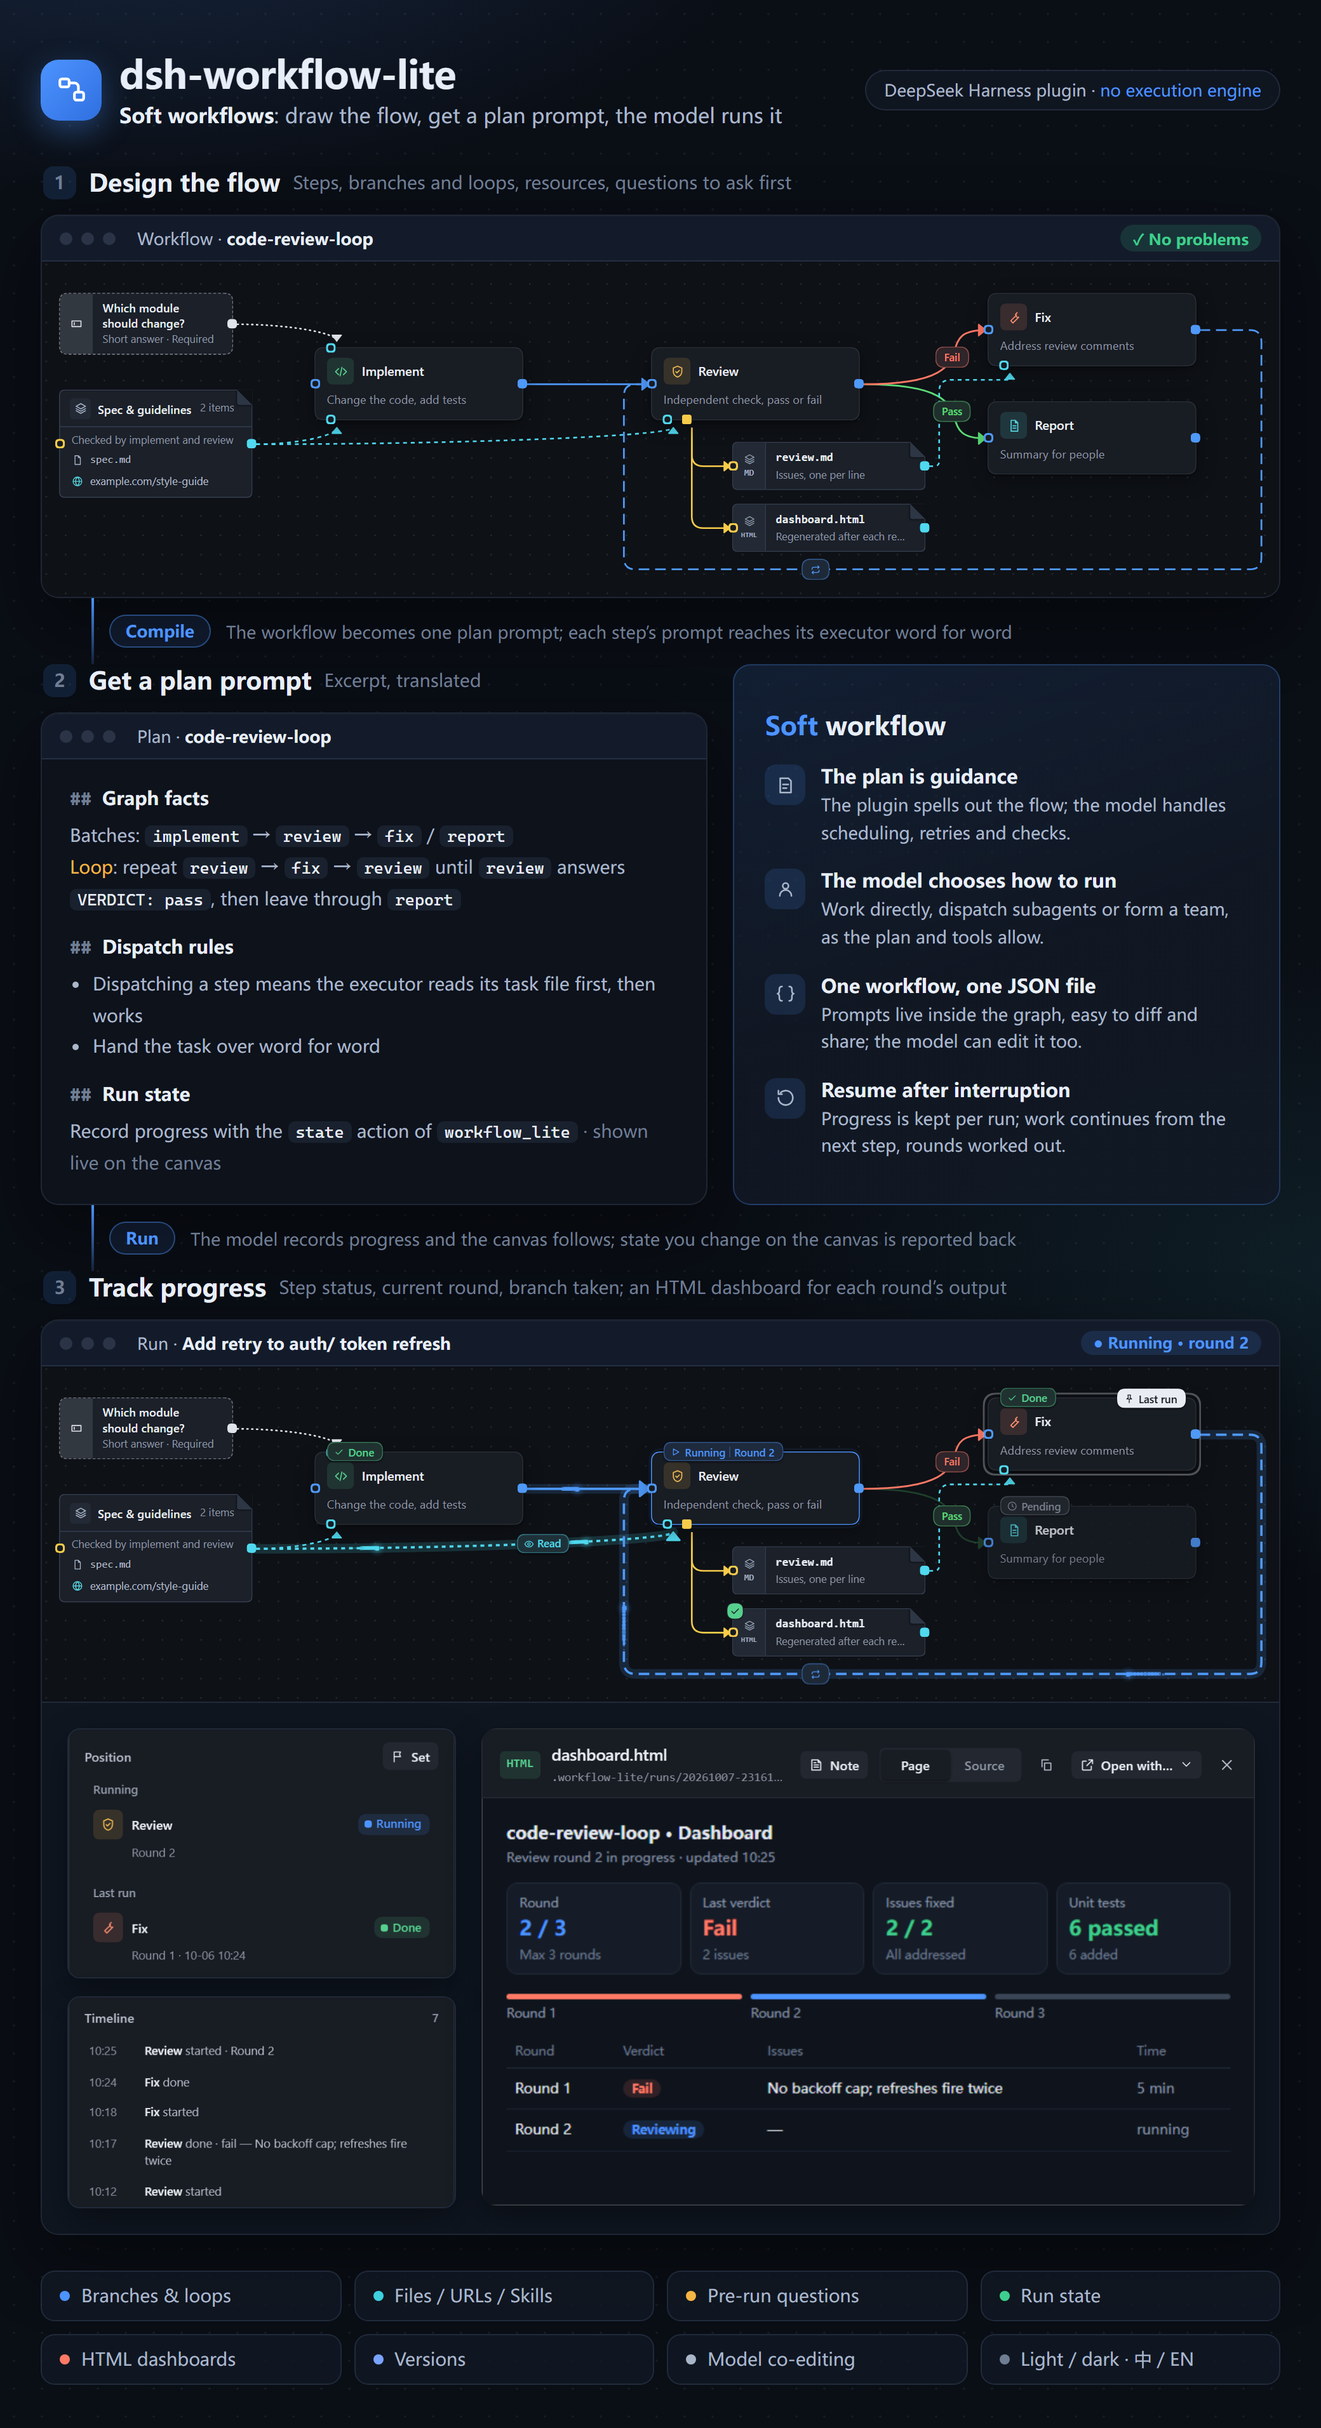
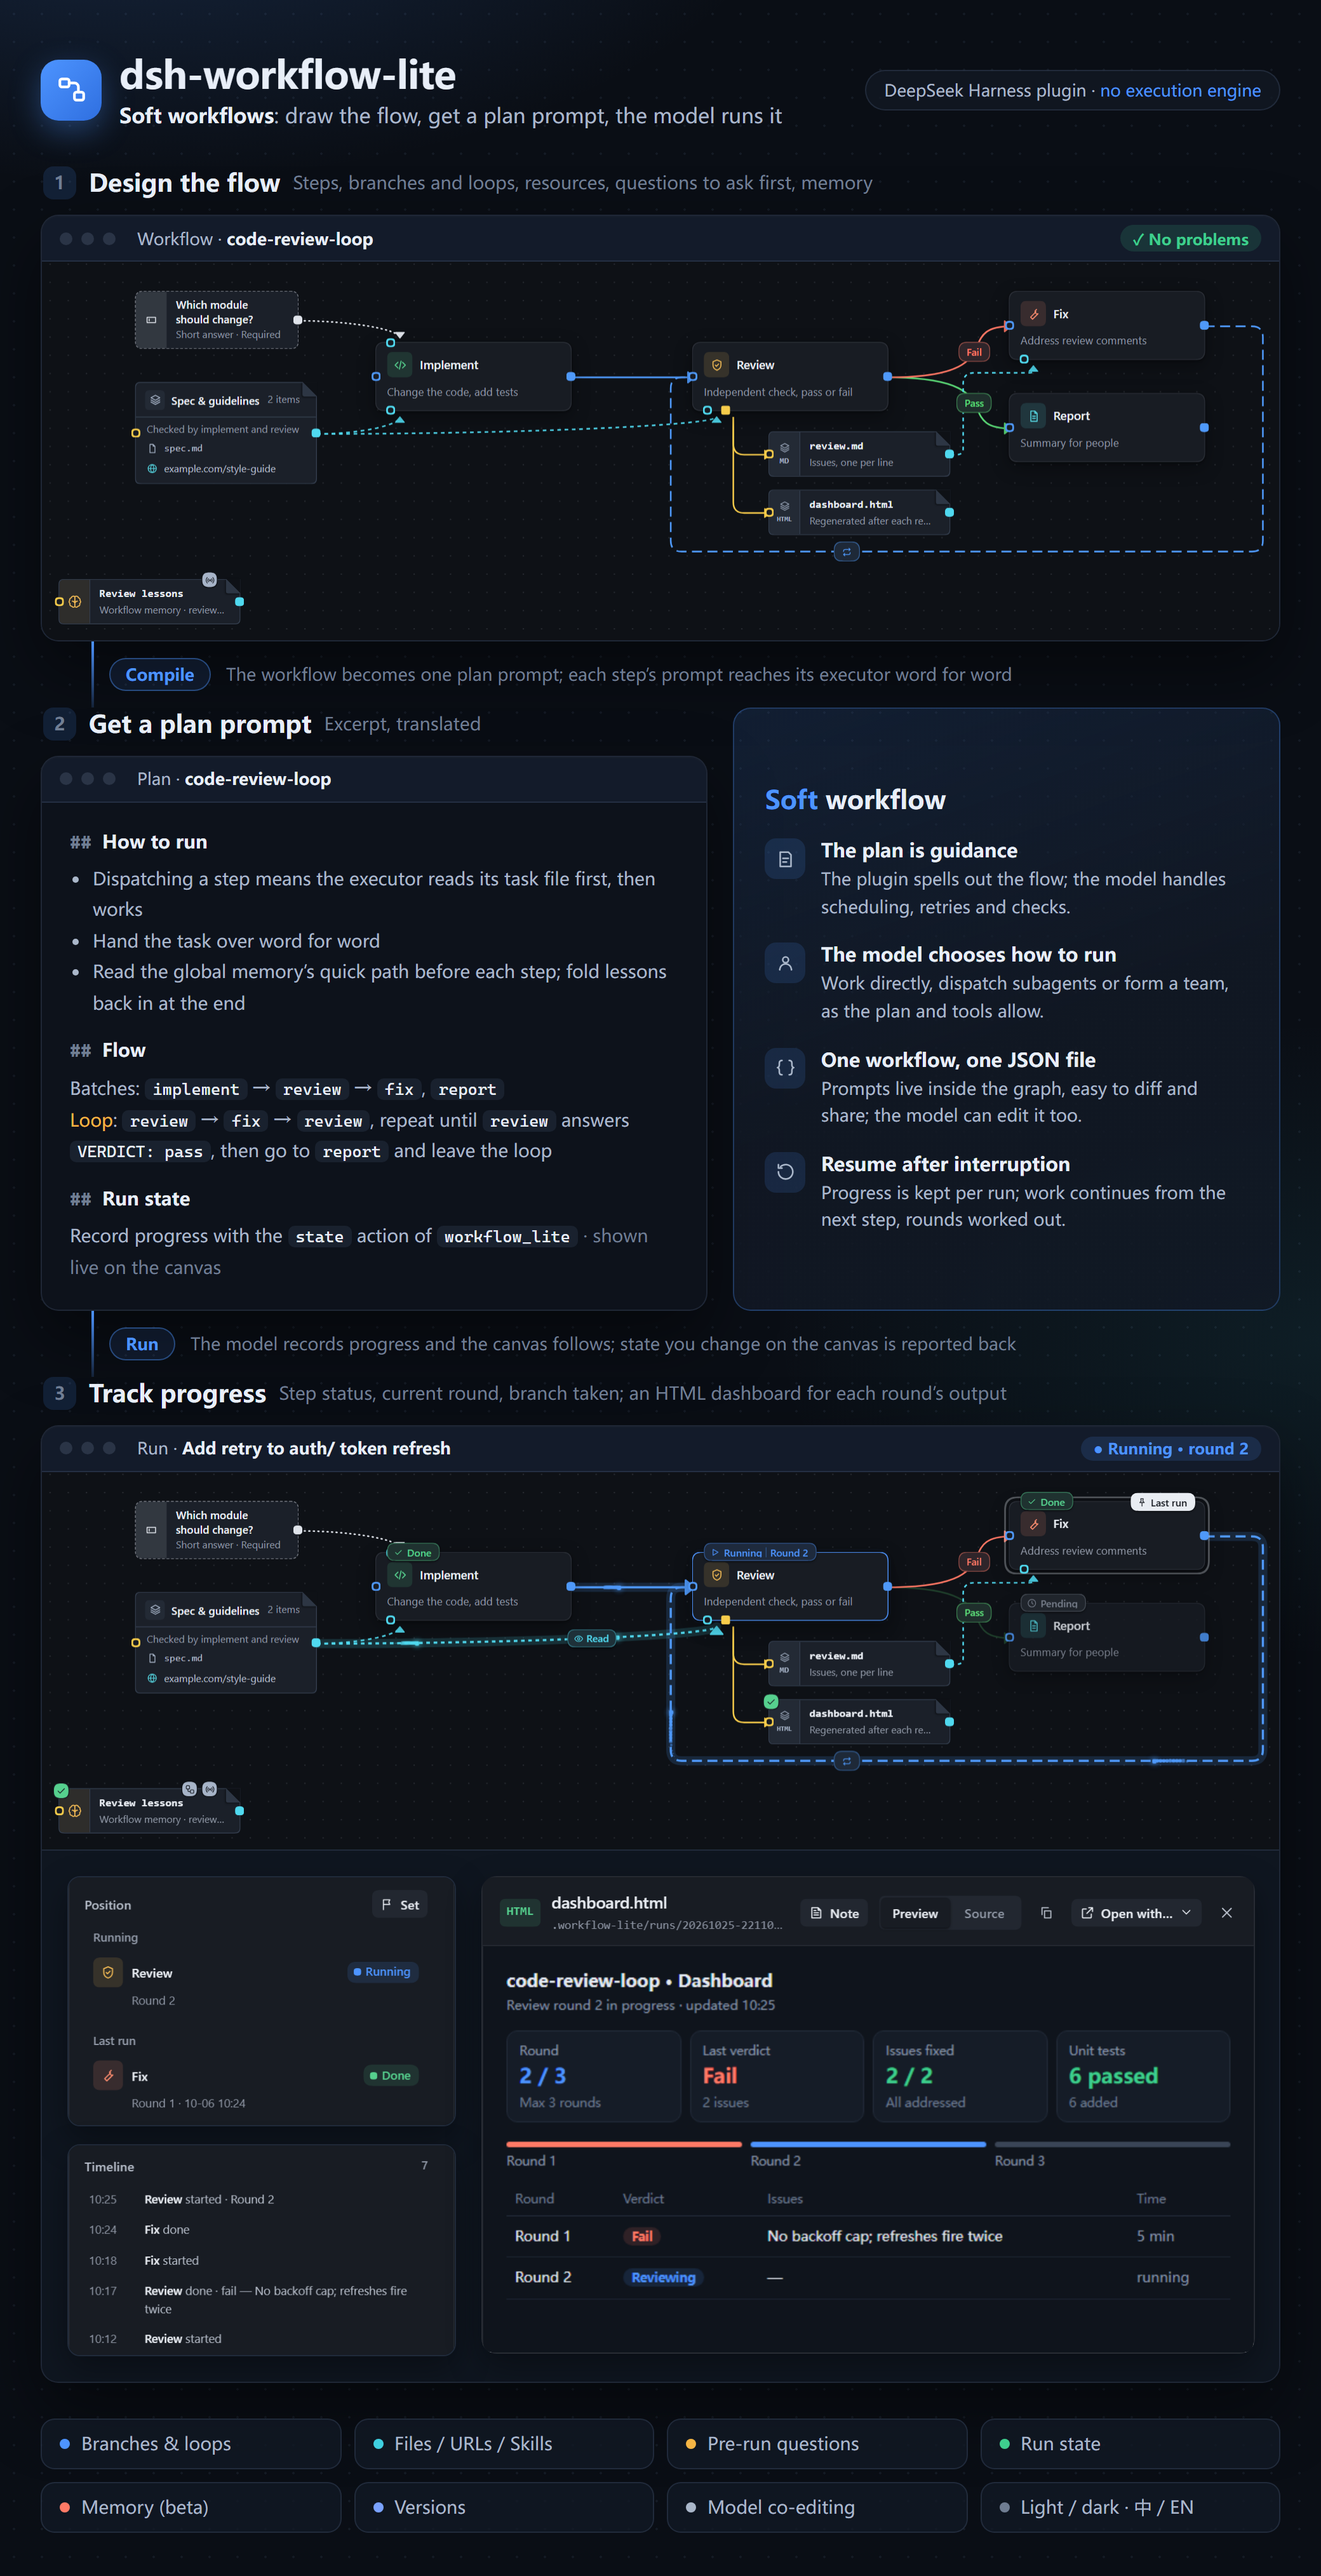
docs(readme): 封面图加上记忆：示例工作流多一张全局记忆卡，计划节选与特性标签补上记忆；实例视图里记忆卡显示记忆库里的名称

diff --git a/tests/readme/hero.html b/tests/readme/hero.html
@@ -215,7 +215,7 @@
         tagline: '<b>软工作流</b>：画布上设计流程，编译成计划提示词，由模型按计划执行',
         pill: 'DeepSeek Harness 插件 · <i>无需执行引擎</i>',
         s1: '设计流程',
-        s1d: '步骤、分支与循环、读写资源、执行前提问',
+        s1d: '步骤、分支与循环、读写资源、执行前提问、记忆',
         s1bar: '工作流 · <b>代码审查循环</b>',
         ok: '✓ 没有问题',
         compile: '编译',
@@ -224,7 +224,7 @@
         s2d: '节选',
         s2bar: '计划 · <b>代码审查循环</b>',
         plan: `<h3>怎么执行</h3>
-          <ul><li>派发一个步骤，就是让执行者先读它那份任务描述再干活</li><li>原样转交，不要转述</li></ul>
+          <ul><li>派发一个步骤，就是让执行者先读它那份任务描述再干活</li><li>原样转交，不要转述</li><li>每步开始前先读全局记忆里的「快速路径」，结束时把经验整理进去</li></ul>
           <h3>流程</h3>
           <p>执行批次：${code('implement')} → ${code('review')} → ${code('fix')}、${code('report')}</p>
           <p><span class="hl">循环</span>：${code('review')} → ${code('fix')} → ${code('review')}，重复执行，直到 ${code('review')} 给出 ${code('VERDICT: pass')} 时走 ${code('report')}，离开循环</p>
@@ -246,7 +246,7 @@
           '文件 / 网址 / Skill 资源',
           '执行前提问',
           '运行状态',
-          'HTML 看板预览',
+          '工作流记忆 · 实验性',
           '版本管理',
           '模型协作编辑',
           '浅色 / 深色 · 中 / 英',
@@ -256,7 +256,7 @@
         tagline: '<b>Soft workflows</b>: draw the flow, get a plan prompt, the model runs it',
         pill: 'DeepSeek Harness plugin · <i>no execution engine</i>',
         s1: 'Design the flow',
-        s1d: 'Steps, branches and loops, resources, questions to ask first',
+        s1d: 'Steps, branches and loops, resources, questions to ask first, memory',
         s1bar: 'Workflow · <b>code-review-loop</b>',
         ok: '✓ No problems',
         compile: 'Compile',
@@ -265,7 +265,7 @@
         s2d: 'Excerpt, translated',
         s2bar: 'Plan · <b>code-review-loop</b>',
         plan: `<h3>How to run</h3>
-          <ul><li>Dispatching a step means the executor reads its task file first, then works</li><li>Hand the task over word for word</li></ul>
+          <ul><li>Dispatching a step means the executor reads its task file first, then works</li><li>Hand the task over word for word</li><li>Read the global memory’s quick path before each step; fold lessons back in at the end</li></ul>
           <h3>Flow</h3>
           <p>Batches: ${code('implement')} → ${code('review')} → ${code('fix')}, ${code('report')}</p>
           <p><span class="hl">Loop</span>: ${code('review')} → ${code('fix')} → ${code('review')}, repeat until ${code('review')} answers ${code('VERDICT: pass')}, then go to ${code('report')} and leave the loop</p>
@@ -287,7 +287,7 @@
           'Files / URLs / Skills',
           'Pre-run questions',
           'Run state',
-          'HTML dashboards',
+          'Memory (beta)',
           'Versions',
           'Model co-editing',
           'Light / dark · 中 / EN',

diff --git a/src/client/ui/RunView.tsx b/src/client/ui/RunView.tsx
@@ -16,6 +16,7 @@ import { useReactFlow } from '@xyflow/react'
 import { useCallback, useEffect, useMemo, useRef, useState } from 'react'
 import type { GraphAnalysis } from '../../shared/graph.ts'
 import { analyzeGraph } from '../../shared/graph.ts'
+import type { MemoryEntry } from '../../shared/memoryLib.ts'
 import { idKey, isInput, isResource, isStep } from '../../shared/model.ts'
 import { type RunCursor, runCursor } from '../../shared/runCursor.ts'
 import {
@@ -129,6 +130,8 @@ export interface RunViewProps {
   reloadRef: React.MutableRefObject<(() => void) | null>
   /** 用系统程序打开产出文件；宿主没有桌面能力时不给。 */
   desktop?: Desktop
+  /** 记忆库（记忆卡上显示它的名称）；还没读回来是 `null`。 */
+  memories?: readonly MemoryEntry[] | null
 }
 
 const GAP = 12
@@ -648,6 +651,7 @@ export function RunView(props: RunViewProps): React.JSX.Element {
             {...(props.onSettled === undefined ? {} : { onSettled: props.onSettled })}
             focusFile={focusFile}
             onFocusFile={setFocusFile}
+            {...(props.memories === undefined ? {} : { memories: props.memories })}
             {...(decor === undefined || swap.dim ? {} : { run: decor })}
           />
         )}

diff --git a/src/client/ui/WorkflowView.tsx b/src/client/ui/WorkflowView.tsx
@@ -823,6 +823,7 @@ function Shell(props: {
               onOpenRun={openRun}
               onOpenTemplate={openTemplate}
               slots={slots}
+              memories={memories.entries}
               reloadRef={reloadRun}
               onOpenHub={() => {
                 setHubExport(false)
